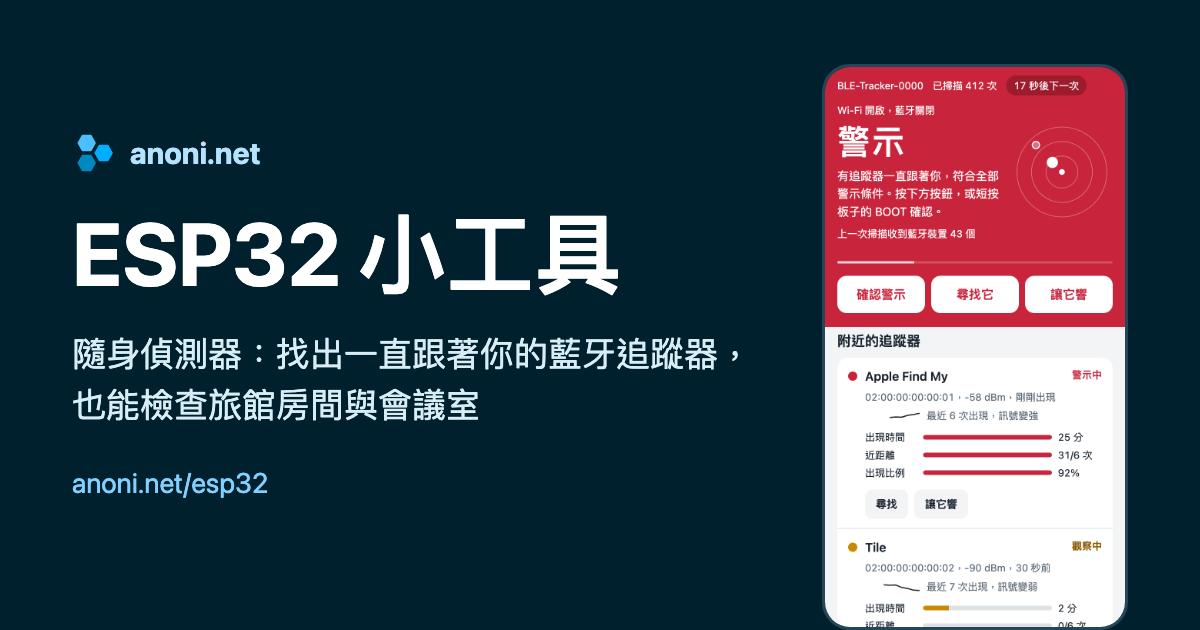
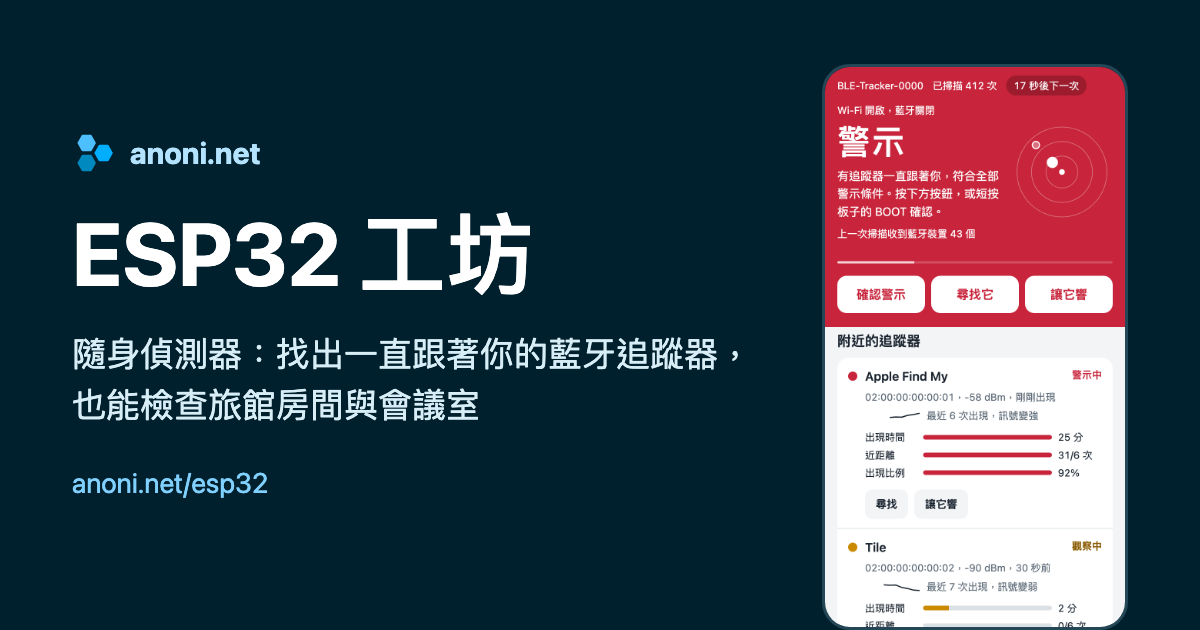
改名為 ESP32 工坊：頁首、標題、麵包屑、首頁大標、分享圖與說明文件
「小工具」太空泛，改用「工坊」帶出用 ESP32 開發、自己安裝的裝置。網址 /esp32/ 與 repo 名稱不變。

Changed region(s): [[0.2775, 0.3317, 0.5242, 0.4825]]

diff --git a/site/build.py b/site/build.py
@@ -69,7 +69,7 @@ TARGETS = {
     ]},
 }
 UA = "anoni-esp32-site"
-SITE_DESC = "匿名網路社群 anoni.net 用 ESP32-S3 開發板做的隱私小工具：隨身偵測器找出跟著你的藍牙追蹤器，也能檢查旅館房間與會議室。原始碼公開。"
+SITE_DESC = "匿名網路社群 anoni.net 用 ESP32-S3 開發板做的隱私工具：隨身偵測器找出跟著你的藍牙追蹤器，也能檢查旅館房間與會議室。原始碼公開。"
 
 
 def load_tools():
@@ -156,7 +156,7 @@ class Site:
     # 頁面：(輸出路徑, 模板, 內容)
     def pages(self):
         # 首頁列出全部的工具，開發用的排在後面、用不同的樣式標出來。導覽列只放給一般使用者的工具
-        yield "", "home.html.j2", {"title": "ESP32 小工具", "description": SITE_DESC,
+        yield "", "home.html.j2", {"title": "ESP32 工坊", "description": SITE_DESC,
                                    "tools": self.user_tools + [t for t in self.tools if t["audience"] == "dev"],
                                    "hero_v": {t["slug"]: self.file_v(t["dir"] / "site" / "shots" / "alert.png") for t in self.tools}}
         for t in self.tools:

diff --git a/site/shots.py b/site/shots.py
@@ -66,7 +66,7 @@ p{font-size:34px;line-height:1.5;margin:0;color:#d8eef7}
 .phone img{width:100%;display:block}
 </style></head><body><div class="wrap"><div class="text">
 <div class="brand"><img src="LOGO" alt="">anoni.net</div>
-<h1>ESP32 小工具</h1>
+<h1>ESP32 工坊</h1>
 <p>隨身偵測器：找出一直跟著你的藍牙追蹤器，也能檢查旅館房間與會議室</p>
 <div class="url">anoni.net/esp32</div>
 </div><div class="phone"><img src="SHOT" alt=""></div></div></body></html>"""

diff --git a/site/pages/about-esp32.md b/site/pages/about-esp32.md
@@ -1,13 +1,13 @@
 +++
 title = "ESP32 是什麼"
-lead = "社群的小工具都做在 ESP32-S3 開發板上。買板子之前，先了解它是什麼、做得到什麼，以及要挑哪一款。"
+lead = "ESP32 工坊的工具都做在 ESP32-S3 開發板上。買板子之前，先了解它是什麼、做得到什麼，以及要挑哪一款。"
 +++
 
 ## 一顆有 Wi-Fi 與藍牙的微控制器
 
 微控制器是一顆把處理器、記憶體與各種介面做在一起的小晶片，常見於家電、玩具與感測器裡。它沒有作業系統，通電之後直接執行燒進去的一個程式，所以開機只要一兩秒，耗電也很少，接行動電源就能帶著走。
 
-ESP32 是上海樂鑫科技（Espressif）推出的微控制器系列，特點是 Wi-Fi 與藍牙做在同一顆晶片上，價格便宜、資料公開，開發工具也是開放原始碼。用它做的小工具可以接收周圍的藍牙廣播、掃描 Wi-Fi 基地台，也能自己開一個熱點，讓手機連上來操作。
+ESP32 是上海樂鑫科技（Espressif）推出的微控制器系列，特點是 Wi-Fi 與藍牙做在同一顆晶片上，價格便宜、資料公開，開發工具也是開放原始碼。用它做的裝置可以接收周圍的藍牙廣播、掃描 Wi-Fi 基地台，也能自己開一個熱點，讓手機連上來操作。
 
 跟手機相比，它少了很多東西：沒有螢幕（可以另外接小的 OLED）、沒有 GPS、沒有行動網路，也沒辦法安裝 App。對隱私工具來說，少反而是優點，板子只做燒進去的那件事，原始碼公開，任何人都能檢查它送出了什麼、記了什麼。
 

diff --git a/README.md b/README.md
@@ -1,8 +1,8 @@
-# anoni.net ESP32 小工具
+# anoni.net ESP32 工坊
 
 **只想使用工具、不會寫程式的話**：到 [anoni.net/esp32](https://anoni.net/esp32/) 用電腦的 Chrome 或 Edge [安裝韌體](https://anoni.net/esp32/install/)，接上 USB 按一下就好，再照[連上板子](https://anoni.net/esp32/connect/)的步驟用手機操作。這份 README 寫給要看原始碼或自己建置的人。
 
-匿名網路社群 anoni.net 用 ESP32-S3 開發板做的隱私小工具。反跟蹤工具需要讓人能檢查板子送出了什麼、記了什麼，所以原始碼公開。從這個 repo 建置、發布在 assets.anoni.net 的韌體都寫著建置它的 commit 與 SHA-256，可以對照這裡的原始碼。工作坊的參加者可以當場燒錄帶回家，想自己做一塊的人也可以照這裡的說明。
+匿名網路社群 anoni.net 用 ESP32-S3 開發板做的隱私工具。反跟蹤工具需要讓人能檢查板子送出了什麼、記了什麼，所以原始碼公開。從這個 repo 建置、發布在 assets.anoni.net 的韌體都寫著建置它的 commit 與 SHA-256，可以對照這裡的原始碼。工作坊的參加者可以當場燒錄帶回家，想自己做一塊的人也可以照這裡的說明。
 
 ## 工具
 
